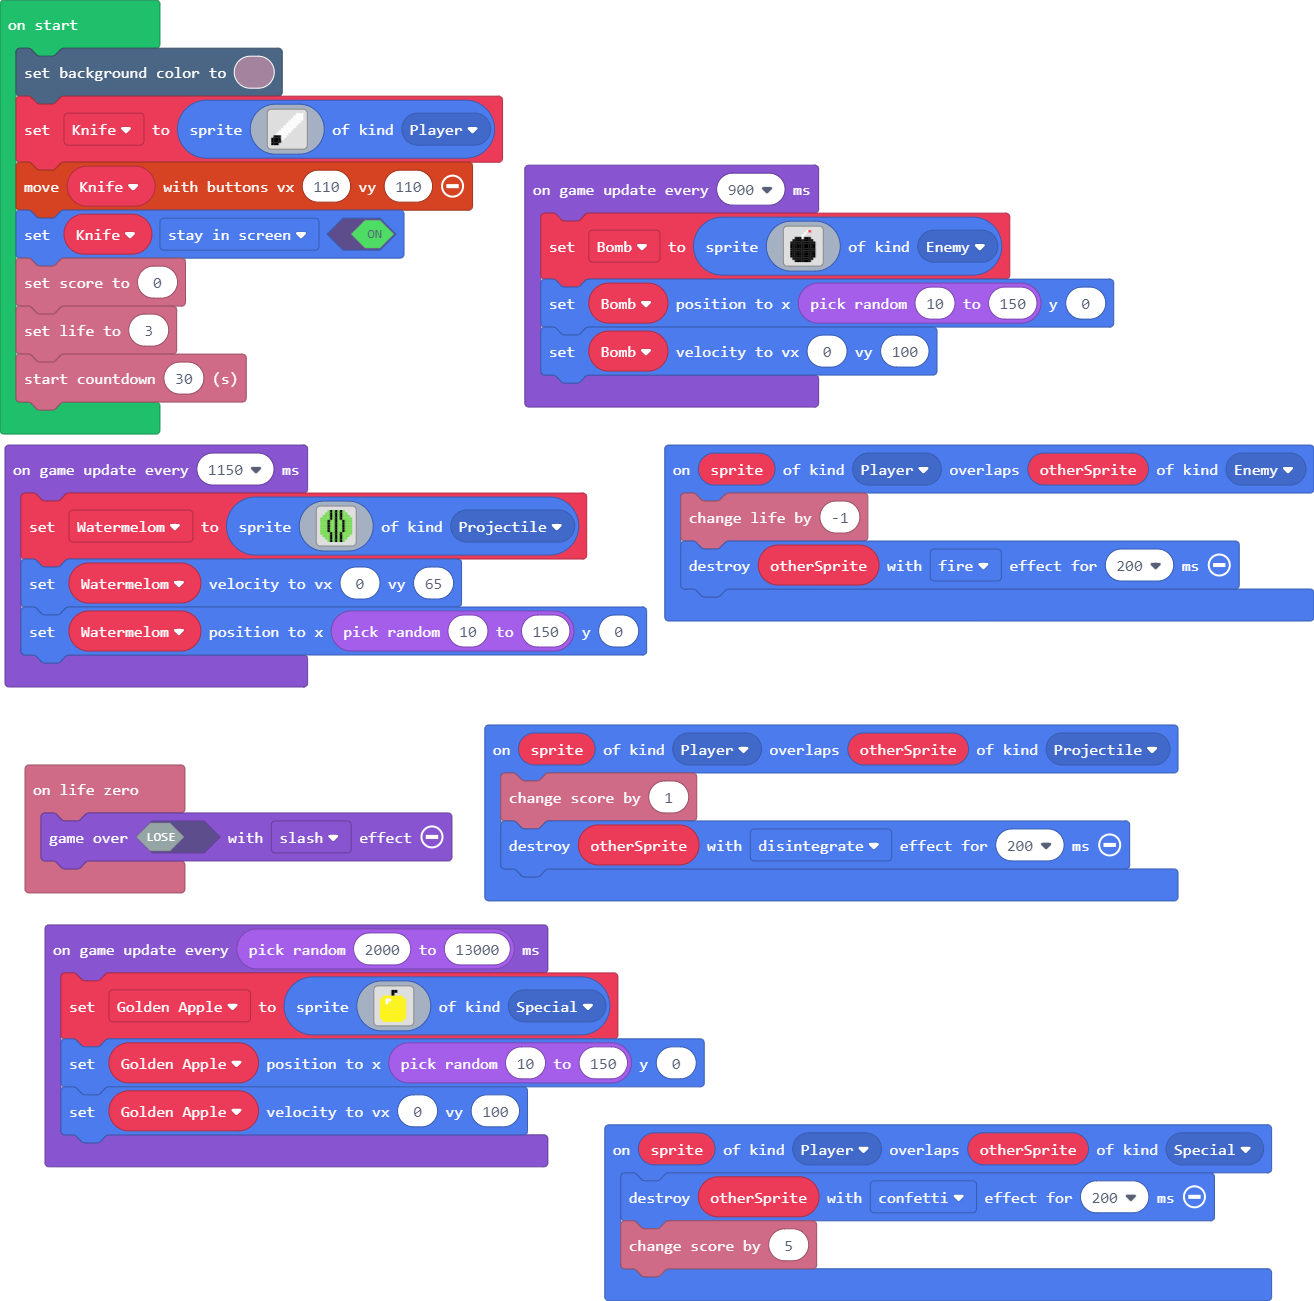
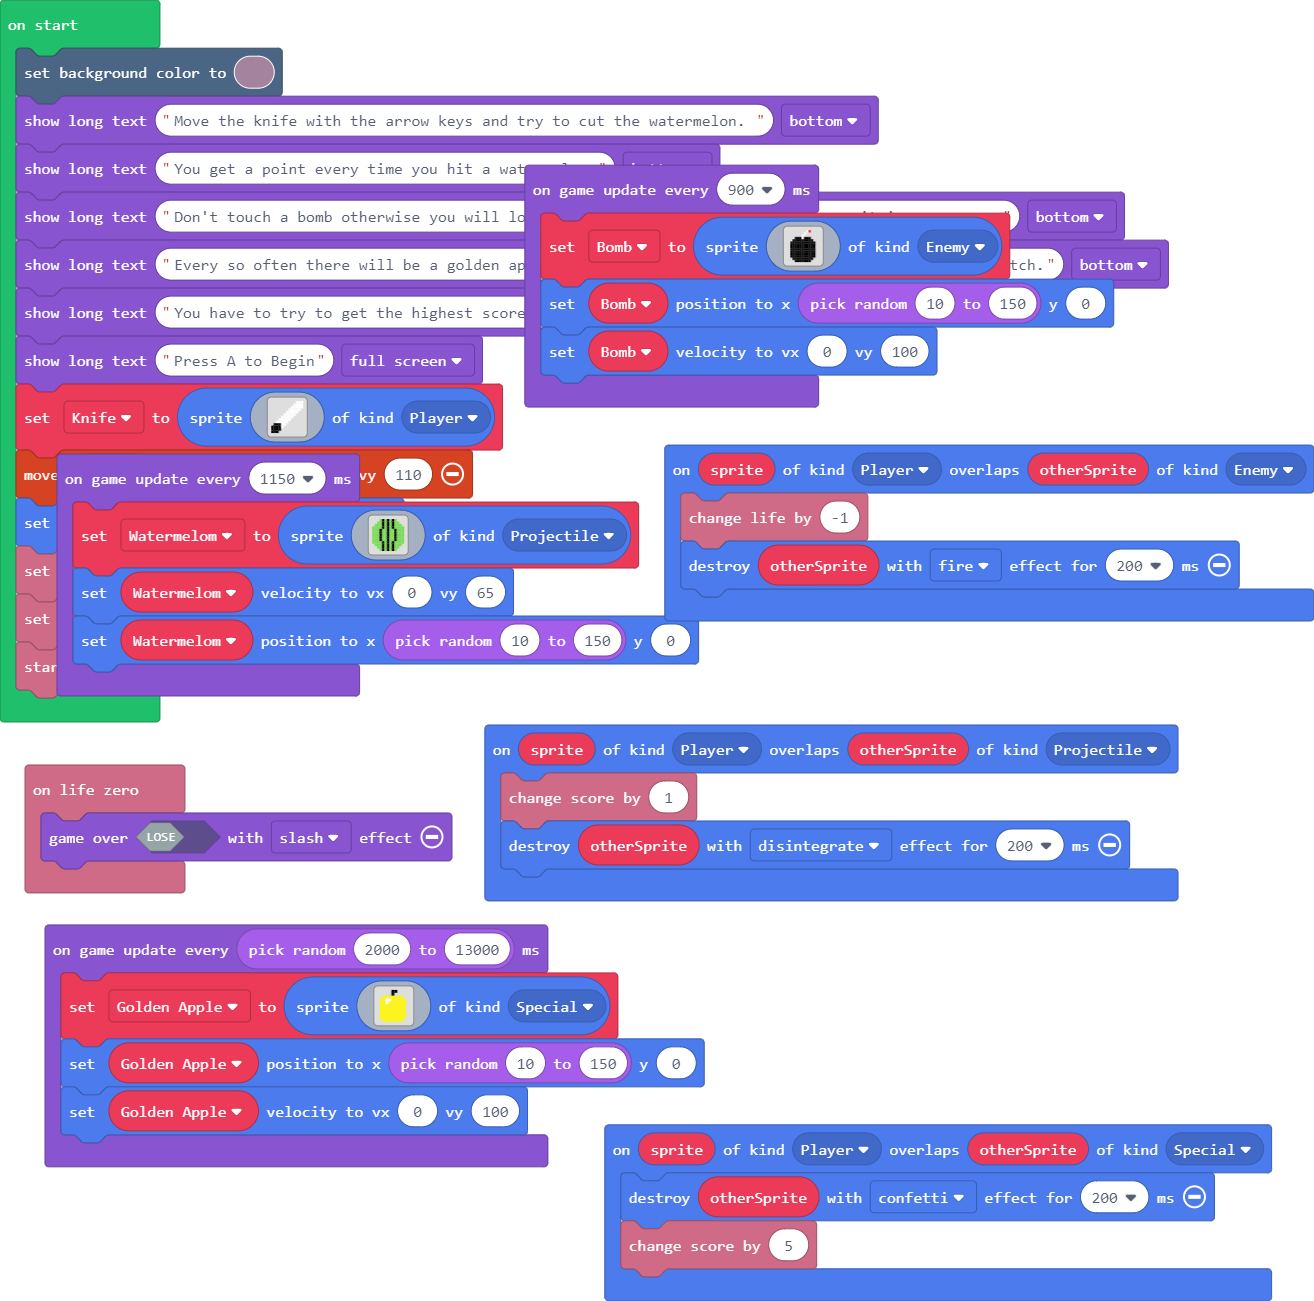
Added instructions

Changed region(s): [[0.0, 0.0615, 0.9049, 0.5534]]

diff --git a/main.ts b/main.ts
@@ -20,6 +20,12 @@ let Golden_Apple: Sprite = null
 let Bomb: Sprite = null
 let Watermelom: Sprite = null
 scene.setBackgroundColor(11)
+game.showLongText("Move the knife with the arrow keys and try to cut the watermelon. ", DialogLayout.Bottom)
+game.showLongText("You get a point every time you hit a watermelon.", DialogLayout.Bottom)
+game.showLongText("Don't touch a bomb otherwise you will lose a life. If you lose all the three, it is game over.", DialogLayout.Bottom)
+game.showLongText("Every so often there will be a golden apple that will give you five points but it is hard to catch.", DialogLayout.Bottom)
+game.showLongText("You have to try to get the highest score in 30 seconds.", DialogLayout.Bottom)
+game.showLongText("Press A to Begin", DialogLayout.Full)
 let Knife = sprites.create(img`
 . . . . . . . . . . 1 1 1 
 . . . . . . . . . 1 1 1 1 
